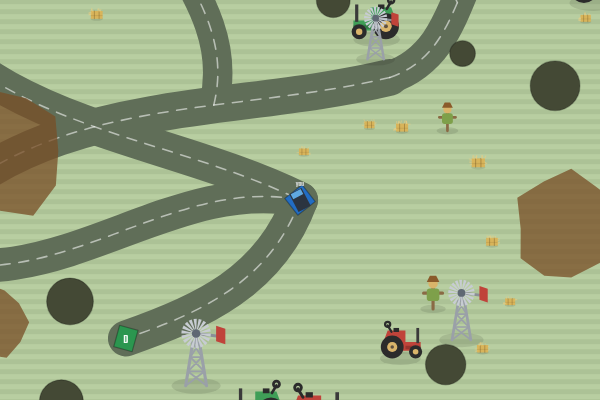
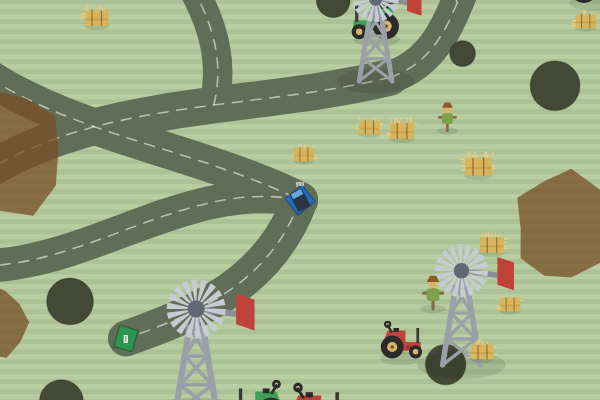
Enlarge farmland windmills and haybales
Double both scales so windmills read as proper landmarks and the rectangular
haybales sit at a natural size (windmill 3.5-5 -> 7-10, haybale 1-1.5 -> 2-3).

diff --git a/src/level/themes.ts b/src/level/themes.ts
@@ -191,9 +191,9 @@ export const THEMES: Record<ThemeId, Theme> = {
     mud: band([28, 42], [36, 52], [28, 36]),
     house: band([8, 28], [30, 46], [50, 62]),
     props: [
-      { kind: "haybale", weight: 2, minScale: 1, maxScale: 1.5 },
+      { kind: "haybale", weight: 2, minScale: 2, maxScale: 3 },
       { kind: "scarecrow", weight: 1, minScale: 2, maxScale: 2.8 },
-      { kind: "windmill", weight: 1, minScale: 3.5, maxScale: 5 },
+      { kind: "windmill", weight: 1, minScale: 7, maxScale: 10 },
       { kind: "tractor", weight: 1, minScale: 4, maxScale: 5.6 },
     ],
   },
